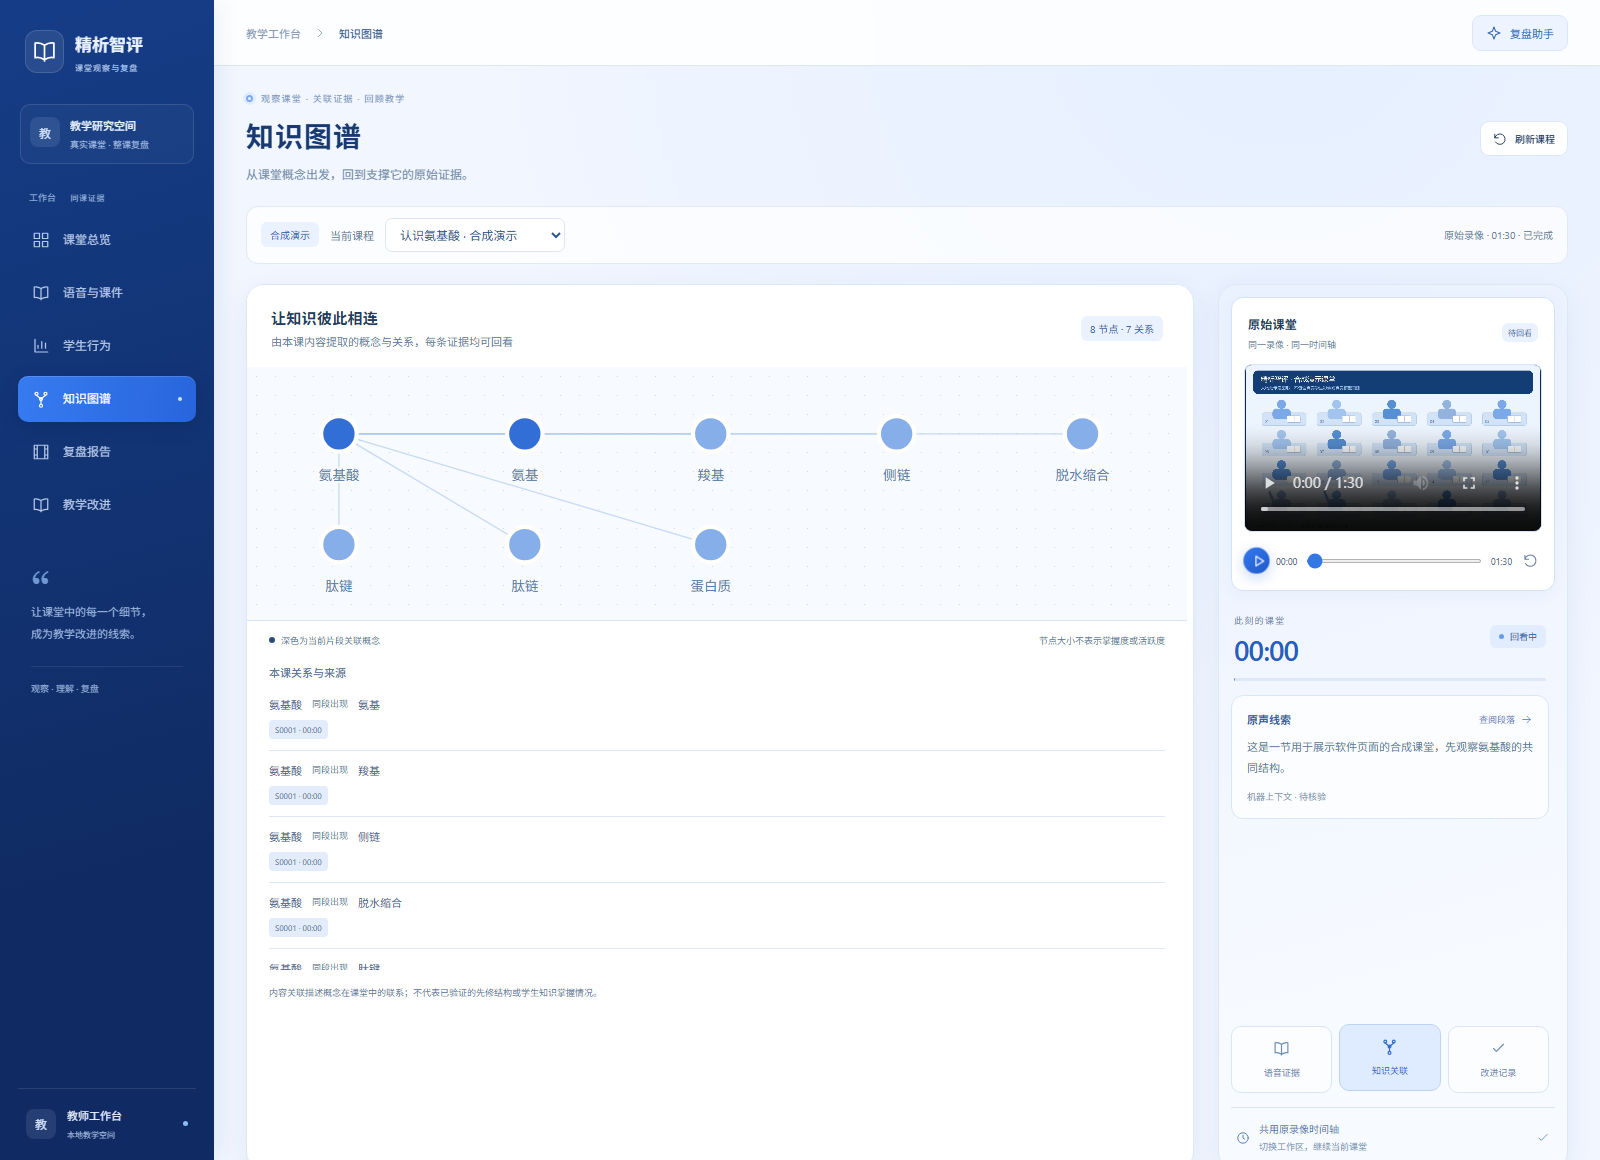
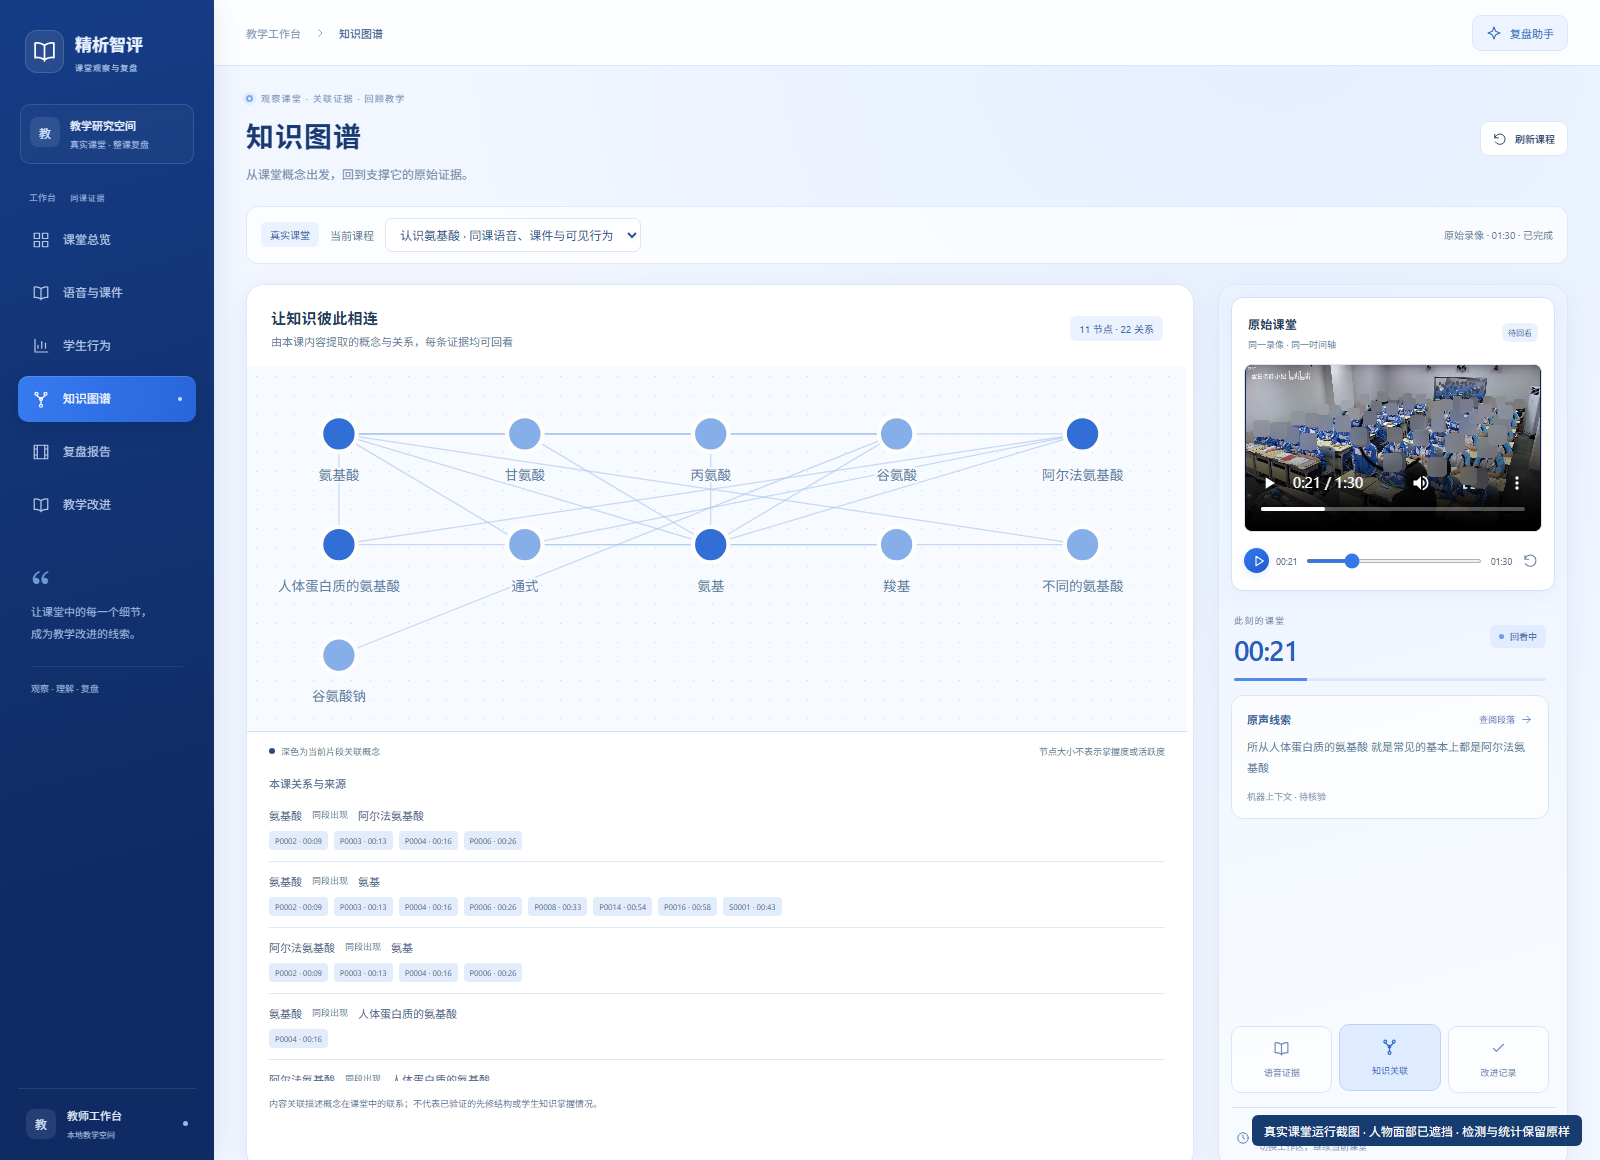
docs: show real classroom results in README screenshots

diff --git a/README.md b/README.md
@@ -8,11 +8,13 @@
 
 ## 页面预览
 
-以下截图来自本地运行的当前程序。课堂文本、人物示意与行为分布均为合成演示数据，不包含真实学生影像，不代表模型实测准确率或教学效果。
+以下截图来自《认识氨基酸》真实课堂的处理结果，包含 90 秒录像、28 段转写、181 个行为采样帧和 11 个概念。截图中人物面部已遮挡，检测框、评分、识别文本和未知状态保持原样。
+
+该课堂片段属于 TS-Interact 训练组，用于展示实际软件功能，不作为独立准确率评测。来源与处理过程见 [同源课堂说明](backend/docs/SYNCHRONIZED_CHEMISTRY_DEMO_20261027.md)。
 
 ### 课堂概览
 
-在同一条时间轴上回看课堂，重点展示学生状态、整体积极度和同刻转写。
+在同一条时间轴上回看课堂，重点展示学生状态、整体积极度和同刻转写。示例定位到原录像第 21 秒，显示 40 个检测对象；检测数量不等同于全班人数。
 
 ![精析智评课堂概览](docs/screenshots/overview.png)
 
@@ -89,7 +91,7 @@ python scripts/run_workbench.py --port 8000 --open-browser
 
 打开 [本机工作台](http://127.0.0.1:8000/)。接口文档位于 [API 文档](http://127.0.0.1:8000/docs)，健康检查为 `/api/review/health`。服务只监听 `127.0.0.1`。
 
-首次启动会创建空的课程登记和本地数据目录；页面没有课程是正常状态。源码不附带课堂视频、转写、学生图像、模型权重或个人工作区。已有登记不会被初始化脚本覆盖。
+首次启动会创建空的课程登记和本地数据目录；页面没有课程是正常状态。源码仅附经过匿名化处理的页面截图，不附带原始课堂视频、完整转写、学生原始图像、模型权重或个人工作区。已有登记不会被初始化脚本覆盖。
 
 Linux/macOS 安装依赖时将解释器路径换成 `backend/.venv-media/bin/python`。源码启动器会识别两种虚拟环境路径；Windows 安装包及 PowerShell 媒体入口的支持范围见 [桌面与运行时](backend/docs/DESKTOP.md)。
 

diff --git a/docs/screenshots/README.md b/docs/screenshots/README.md
@@ -1,6 +1,6 @@
 # 页面截图说明
 
-这些图片由当前程序的生产构建实际渲染，界面语言为中文。截图尺寸为 1600 × 1160，使用独立的本地演示工作区。
+这些图片由当前程序的生产构建实际渲染，界面语言为中文。截图尺寸为 1600 × 1160，使用独立工作区读取既有的真实课堂处理结果。
 
 | 文件 | 展示内容 |
 | --- | --- |
@@ -8,6 +8,10 @@
 | `student-review.png` | 学生行为分析与逐帧视觉复核 |
 | `knowledge-graph.png` | 本课知识概念、关系与来源入口 |
 
-课堂名称、文本、人物图形、对象框和状态分布均为合成演示数据，页面中保留“合成演示”标识。没有使用真实学生的照片、录像或个人记录，也没有运行模型生成预测。
+课堂来源为 TS-Interact 的 `Chemistry_001_part9.mp4`，系统课程编号为 `unified-chemistry-001-9`。录像长 90 秒，包含 28 段语音转写、181 个行为采样帧、11 个概念和 22 条概念关联。
 
-示例评分只用于展示既有规则和软件交互，不能据此判断识别准确率、学生投入程度或教学效果。原始课堂媒体、个人工作区和推理产物继续排除在源码发布之外。
+三张截图均定位到第 21 秒，对应行为帧 `V0043`。画面中的 40 个检测对象、状态分布、51.9 分规则估计、机器转写及图谱来自现有课程包。本次截图没有重新推理、补造人物框、修饰转写或伪造人工复核结论。
+
+人物面部只在截图显示层遮挡，原始录像、行为图像与课程包保持原样。右下角标注了匿名化处理；公开仓库不包含原始媒体或个人工作区。
+
+该片段属于 TS-Interact 训练组，用于展示实际软件功能。模型候选、低支持评分和未核验转写仍按原状态显示，不能据此推导独立识别准确率、心理投入或教学效果。处理过程见 [同源课堂说明](../../backend/docs/SYNCHRONIZED_CHEMISTRY_DEMO_20261027.md)。

diff --git a/docs/SOURCE_LAYOUT_20261030.md b/docs/SOURCE_LAYOUT_20261030.md
@@ -21,7 +21,8 @@
 ## 截图与验证
 
 README 使用当前程序实际渲染的中文页面截图，图片位于 `docs/screenshots/`。
-截图中的课堂、人物示意与行为分布均为合成演示，不包含真实学生照片或录像。
+截图读取《认识氨基酸》的真实课堂处理结果，人物面部在截图显示层遮挡；
+原始媒体、检测、评分与转写保持原样。
 截图说明见 [页面截图](screenshots/README.md)。
 
 GitHub Actions 安装 FFmpeg 后执行视频集成测试。模型生命周期测试明确隔离

diff --git a/backend/tests/LANGUAGE_DATA.md b/backend/tests/LANGUAGE_DATA.md
@@ -9,4 +9,4 @@
 
 接口字段、枚举值、桌面握手标记和现有二进制标识保持兼容。任意 Unicode 路径测试只验证文件系统能力，不是仓库的实际文件名。
 
-README 页面截图使用明确标注的合成演示数据，不包含真实学生影像，也不作为模型准确率或教学效果证据。
+README 页面截图读取既有的真实课堂处理结果，人物面部在截图显示层遮挡。检测、评分与转写保持原样；训练组片段的截图不作为独立准确率或教学效果证据。
